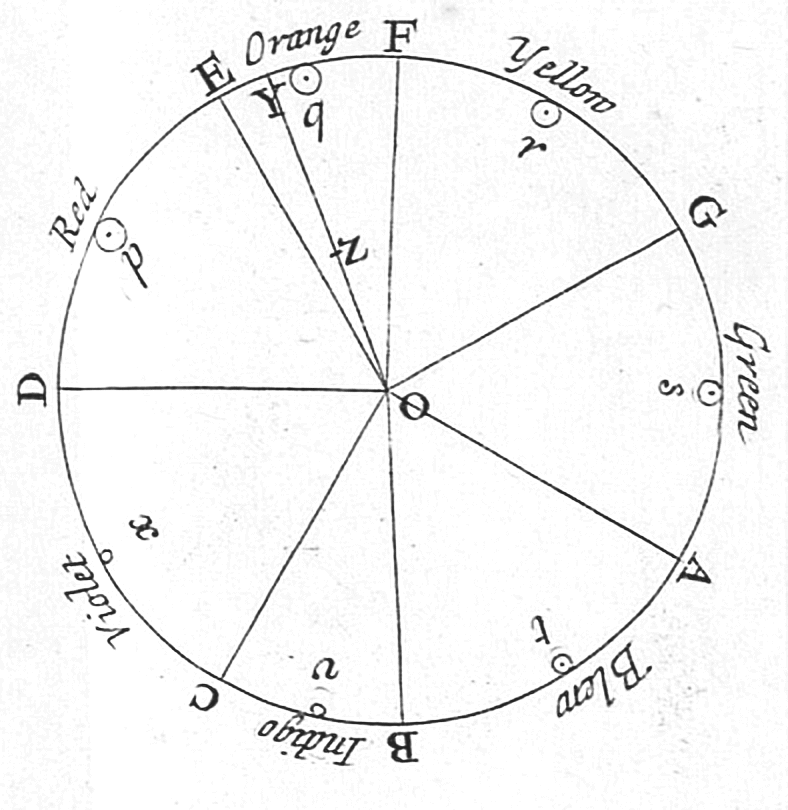
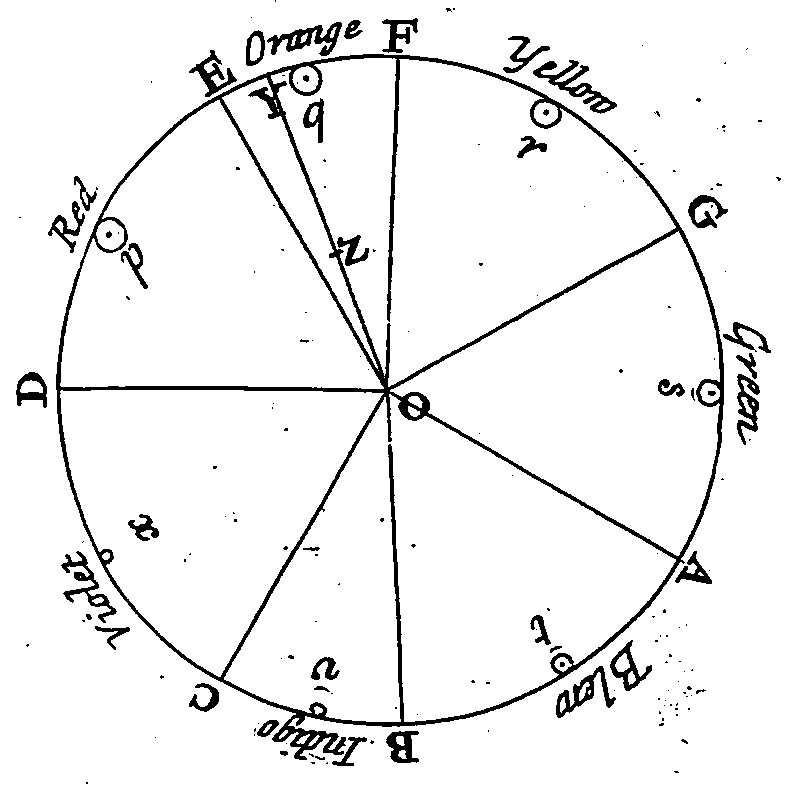
jpg to pngs

diff --git a/src/routes/+page.svelte b/src/routes/+page.svelte
@@ -26,7 +26,7 @@
   <h1 class="title">Design Monolith</h1>
   <p class="subtitle">An Audio-Visual Design System of Order Against Chaos</p>
 
-  <img src="/images/Paradiso_Canto_31_(148200393).jpg" alt="Paradiso" />
+  <img src="/images/paradiso.jpg" alt="Paradiso" />
 
   <!-- ══════════════════════════════════════ -->
   <!-- I. THE FIRST SONG                      -->
@@ -35,7 +35,7 @@
 
   <p>One "Hertz" is equal to one single heartbeat cycle of a healthy human being. The origin is the heart — the heartbeat itself.</p>
 
-  <img src="/images/Holy card depicting the Sacred Heart of Jesus, c. 1880.jpg" alt="Sacred Heart of Jesus" />
+  <img src="/images/sacred_heart_of_jesus.png" alt="Sacred Heart of Jesus" />
 
   <p>When an open string is plucked, a sound, a note, is produced. When that same string is pressed at its midpoint and plucked again, a different pitch emerges — the same note, but at double the frequency. This is the 1:2 ratio, which produces the <em>octave</em>.</p>
 
@@ -87,7 +87,7 @@
 
   <p>This discrepancy is known as the <em>Pythagorean comma</em>. The imperfect interval it produces has been called the <em>wolf fifth</em>, the <em>Procrustean fifth</em>, or simply the <em>imperfect fifth</em>.</p>
 
-  <img src="/images/Gaffurio_Pythagoras.png" alt="Pythagoras" />
+  <img src="/images/Pythagoras.png" alt="Pythagoras" />
 
   <p>The contemporary remedy is <em>equal temperament</em> — a system that resolves the comma by dividing the octave into twelve steps of identical frequency ratio. In doing so, it introduces a far graver problem: a musical system of pervasive, subtle dissonance to which modern ears have simply grown accustomed. This is a satanic lie of harmony — chaos in disguise.</p>
 
@@ -212,7 +212,7 @@
 
   <p>The old names are retained in parentheses for reference only.</p>
 
-  <img src="/images/Ptolemaicsystem-small.png" alt="Ptolemaic System" />
+  <img src="/images/ptolemaic_system.png" alt="Ptolemaic System" />
 
   <hr />
 
@@ -223,11 +223,9 @@
 
   <p>In 1787, Ernst Chladni demonstrated that sound possesses a geometric dimension. By drawing a violin bow along the edge of a flour-dusted plate, he observed symmetrical patterns emerge — the flour migrating to the nodal lines, where the surface was still.</p>
 
-  <img src="/images/Bowing_chladni_plate.png" alt="Cymatics - Chladni Plate" />
+  <img src="/images/cymatics_chladni_plate.png" alt="Cymatics - Chladni Plate" />
 
   <p>In the 20th century, Hans Jenny coined the term <em>cymatics</em> to describe such acoustic phenomena. The hidden geometry of frequency is thereby revealed: certain tones resolve into clear, coherent forms; other... not so much.</p>
-
-  <img src="/images/Sonoluminescence3.jpg" alt="Sonoiluminescence - Sulfuric Acid" />
 
   <p>The note A in this system, at its fourth octave, carries a frequency of 432 Hz (3³ × 2⁴). In cymatics experiments it yields a precise and beautiful geometric figure. The Stuttgart standard pitch of 440 Hz produces no such clarity — only disorder made comfortable by long familiarity.</p>
 
@@ -428,11 +426,11 @@ light-mulberry   hsl(330, 50%, 75%)  → rgb(223, 159, 191)</pre>
 
   <p>The tradition called <em>musica universalis</em> — the harmony of the spheres — holds that the motions of celestial bodies are expressions of musical proportion, and that the cosmos is, at its root, a sonic order. The idea is traced to Pythagoras, who taught that the distances and velocities of the wandering stars correspond to musical intervals, producing a vast and inaudible harmony. Plato preserved it in the <em>Republic</em>, where the Sirens sing a single note upon each celestial sphere. It passed through the Neoplatonists, through the medieval quadrivium, and arrived — transformed but intact — at the desk of Johannes Kepler.</p>
 
-  <img src="/images/Ioanniskepplerih00kepl_0081.jpg" alt="Ioannis Keppler - Platonic Solids" />
+  <img src="/images/Kepler_platonic_solids.png" alt="Ioannis Keppler - Platonic Solids" />
 
   <p>In his <em>Harmonices Mundi</em> (1619), Kepler calculated the angular velocity of each planet at perihelion and aphelion — its fastest and slowest points in orbit — and derived the musical interval each planet traces across the sky. Saturn spans a minor third; Jupiter, the same. Mars spans a fifth. The Earth, whose variation in speed is the most constrained of all, produces a single semitone — the interval between <em>mi</em> and <em>fa</em>, which Kepler read as <em>miseria</em>: misery. He then assigned a modal character to each wandering star.</p>
 
-  <img src="/images/Kepler_Mars_retrograde.jpg" alt="Ioannis Keppler - Mars' Retrograde Motion" />
+  <img src="/images/Kepler_Mars_retrograde.png" alt="Ioannis Keppler - Mars' Retrograde Motion" />
 
   <p>The present work stands in this lineage, but moves in the opposite direction. This system begins with God's simplest gift — the heartbeat, the fifth, the octave — and builds upward from first principles, from the darkness of sin toward the light of the heavenly order. The ancients heard harmony from without. This is an attempt to construct it from within.</p>
 
@@ -440,9 +438,11 @@ light-mulberry   hsl(330, 50%, 75%)  → rgb(223, 159, 191)</pre>
 
   <p>Sonoluminescence is the emission of light from imploding bubbles in a liquid excited by sound — luminescence induced by acoustic energy. It was accidentally discovered in 1934 at the University of Cologne by Hermann Frenzel and H. Schultes during sonar research.</p>
 
+  <img src="/images/sonoluminesence_sulfuric_acid.jpg" alt="Sonoiluminescence - Sulfuric Acid" />
+
   <p>The phenomenon has since been observed in nature: the pistol shrimp is the first known creature to produce light by this means, collapsing cavitation bubbles with its claw to generate a flash intense enough to stun or kill prey.</p>
 
-  <img src="/images/Pistol-Shrimp.jpg" alt="Sonoiluminescence - Pistol Shrimp" />
+  <img src="/images/sonoluminesence_pistol_shrimp.jpg" alt="Sonoiluminescence - Pistol Shrimp" />
 
   <p>This is not a curiosity. It is evidence that light can be born from sound.</p>
 
@@ -463,7 +463,7 @@ light-mulberry   hsl(330, 50%, 75%)  → rgb(223, 159, 191)</pre>
 
   <img src="/images/Nikon P1000 - Zooming On A Star!.jpg" alt="NikonP1000 Star Zoom" />
 
-  <img src="/images/Ezekiel's_vision.jpg" alt="Ezekiel's Vision" />
+  <img src="/images/Ezekiel's_vision.png" alt="Ezekiel's Vision" />
 
   <blockquote>"As for the appearance of the wheels and their construction: their appearance was like the gleaming of beryl. And the four had the same likeness, their appearance and construction being as it were a wheel within a wheel."</blockquote>
   <p class="cite">— Ezekiel 1:16</p>
@@ -477,7 +477,7 @@ light-mulberry   hsl(330, 50%, 75%)  → rgb(223, 159, 191)</pre>
 
   <p>The zodiac opens with Aries — the spring equinox, when Christ was crucified — followed by Taurus and Gemini. Cancer marks the summer solstice, followed by Leo and Virgo. Libra falls at the autumn equinox, followed by Scorpius and Sagittarius. Capricornus holds the winter solstice, Aquarius follows, and the cycle closes with Pisces.</p>
 
-  <img src="/images/Beit_alfa01.jpg" alt="The Zodiac" />
+  <img src="/images/zodiac.png" alt="The Zodiac" />
 
   <p>The degrees of a scale — and the achromatic shades — find further correspondence in the wandering stars: those visible to the naked eye that move across the firmament against the fixed constellations. Ordered from swiftest to slowest, by sidereal motion and retrograde duration alike, they are the Moon ☽, Mercury ☿, Venus ♀, the Sun ☉, Mars ♂, Jupiter ♃, and Saturn ♄.</p>
 
@@ -520,7 +520,7 @@ light-mulberry   hsl(330, 50%, 75%)  → rgb(223, 159, 191)</pre>
 
   <p>The system assembled in the preceding sections is governed by two numbers. Twelve commands the circle — the chromatic compass, the hue wheel, the zodiac. Seven commands the living sequence within it — the modes, the scale, the degrees of shade, the wandering stars. Their relationship is the hidden architecture of the entire design.</p>
 
-  <img src="/images/Tabernakel.jpg" alt="The Twelve Tribes of Isreael - Tabernacle" />
+  <img src="/images/tabernacle.png" alt="The Twelve Tribes of Isreael - Tabernacle" />
 
   <h3>Twelve</h3>
 
@@ -530,7 +530,7 @@ light-mulberry   hsl(330, 50%, 75%)  → rgb(223, 159, 191)</pre>
 
   <p>Twelve appears 147 times in Scripture. Ishmael has twelve sons; Jacob, twelve sons who become the twelve tribes of Israel. Christ called twelve Apostles, and when one fell, the assembly was immediately restored to twelve. The Old Testament contains twelve Minor Prophets. The Book of Revelation is threaded with the figure: a woman crowned with twelve stars; twelve thousand sealed from each of twelve tribes, yielding 144,000 in all — the square of twelve, multiplied by a thousand.</p>
 
-  <img src="/images/Mosaic_Tribes.jpg" alt="The Twelve Tribes of Isreael - Coat of Arms" />
+  <img src="/images/12tribes.png" alt="The Twelve Tribes of Isreael - Coat of Arms" />
 
   <blockquote>"Through the middle of the street of the city; also, on either side of the river, the tree of life with its twelve kinds of fruit, yielding its fruit each month. The leaves of the tree were for the healing of the nations."</blockquote>
   <p class="cite">— Revelation 22:2</p>
@@ -545,7 +545,7 @@ light-mulberry   hsl(330, 50%, 75%)  → rgb(223, 159, 191)</pre>
 
   <p>In Scripture, seven is the signature of completion. Creation unfolds across six days and rests on the seventh. The Book of Revelation turns on seven seals, seven trumpets, seven bowls — seven not as the endless ring of twelve, but as the wholeness of a journey brought to its final degree: a scale resolved, a song concluded.</p>
 
-  <img src="/images/Angels_receiving_seven_trumpets_-_Apocalypse_Picture_Book,_Pierpont_Morgan.jpg" alt="The Seven Trumpets" />
+  <img src="/images/7trumpets.png" alt="The Seven Trumpets" />
 
   <p>Within this design: seven notes in a scale, seven modes, seven wandering stars, seven degrees of achromatic shade. Twelve is the vessel. Seven is what moves inside it.</p>
 
@@ -602,12 +602,12 @@ light-mulberry   hsl(330, 50%, 75%)  → rgb(223, 159, 191)</pre>
 
   <p>Sound, colour, and the wandering stars above are governed by the same two proportions — born from the same heartbeat, the same fifth, the same octave, the same one trinitarian God.</p>
 
-  <img src="/images/Kepler_Optica.jpg" alt="Ioannis Keppler - Optica" />
+  <img src="/images/Kepler_optica.png" alt="Ioannis Keppler - Optica" />
 
   <p>This is not a theory about music. Nor is it a theory about colour. It is a claim about the structure of the created world: that harmony is not a matter of taste but of number; that beauty is not completely subjective but measurable, if not by man-made tools, than certainly by a holy intuition; that the same ratios governing a plucked string also govern the turning of the heavens.</p>
 
   <p>This document has attempted nothing more than to gather those threads, extend them by arithmetic and first principle, and hold them in a single hand. What it describes was not invented. It was recovered and inscribed to this digital monolith.</p>
 
-  <img src="/images/Polaris Time lapse.jpg" alt="Polaris Time Lapse" />
+  <img src="/images/Polaris_time_lapse.jpg" alt="Polaris Time Lapse" />
 
 </article>
